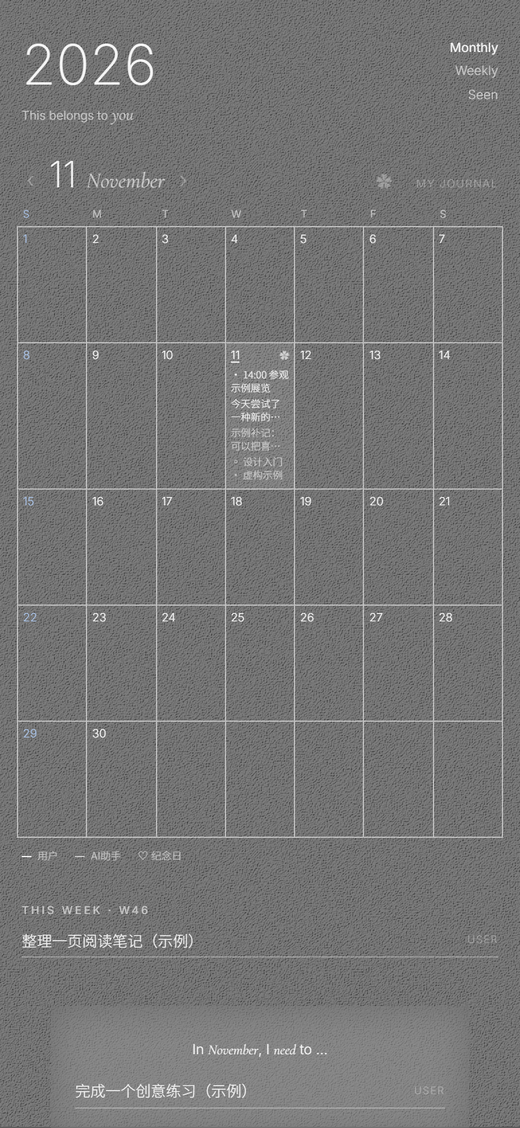
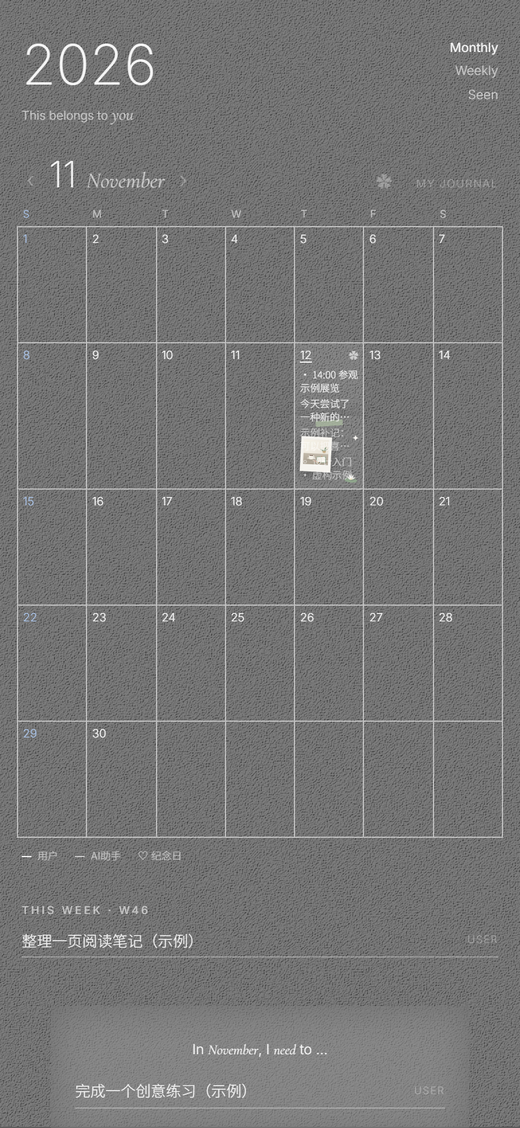
feat: month page previews, offline retry, and two sticker designs

Changed region(s): [[0.4308, 0.3103, 0.7077, 0.4344]]

diff --git a/frontend/stickers.js b/frontend/stickers.js
@@ -37,6 +37,8 @@ const STICKERS = (() => {
     ["sparkle", { w: 9, svg: svg("100 100", `<path fill="${W}" d="M50 5c3 27 13 40 45 45-32 5-42 18-45 45-3-27-13-40-45-45 32-5 42-18 45-45z"/>`) }],
     ["moon", { w: 12, svg: svg("100 100", `<path fill="#f1e6c4" d="M62 9a42 42 0 1 0 30 64A37 37 0 0 1 62 9z"/>`) }],
     ["sun", { w: 14, svg: svg("100 100", `<circle cx="50" cy="50" r="17" ${line()}/>${petals(8, `<path ${line()} d="M50 9v13"/>`)}`) }],
+    ["scales", { w: 30, svg: svg("140 84", `<defs><filter id="sb"><feGaussianBlur stdDeviation=".7"/></filter></defs><g filter="url(#sb)"><ellipse cx="46.9" cy="11.4" rx="3.9" ry="2.6" transform="rotate(-10 46.9 11.4)" fill="#f4f2ee" opacity="0.31"/><ellipse cx="62.7" cy="11.7" rx="3.7" ry="2.2" transform="rotate(-14 62.7 11.7)" fill="#f4f2ee" opacity="0.36"/><ellipse cx="75.4" cy="9.5" rx="3.8" ry="2.2" transform="rotate(-8 75.4 9.5)" fill="#f4f2ee" opacity="0.31"/><ellipse cx="89.4" cy="11.7" rx="4.8" ry="2.7" transform="rotate(-8 89.4 11.7)" fill="#f4f2ee" opacity="0.33"/><ellipse cx="28.5" cy="21.2" rx="5.1" ry="3.6" transform="rotate(-12 28.5 21.2)" fill="#f4f2ee" opacity="0.37"/><ellipse cx="42.1" cy="21.1" rx="4.6" ry="2.7" transform="rotate(-12 42.1 21.1)" fill="#f4f2ee" opacity="0.46"/><ellipse cx="55.8" cy="19.8" rx="4.6" ry="2.9" transform="rotate(-10 55.8 19.8)" fill="#f4f2ee" opacity="0.5"/><ellipse cx="68.3" cy="19.7" rx="5.4" ry="3.6" transform="rotate(-13 68.3 19.7)" fill="#f4f2ee" opacity="0.52"/><ellipse cx="82.5" cy="21.5" rx="5.1" ry="3.2" transform="rotate(-8 82.5 21.5)" fill="#f4f2ee" opacity="0.53"/><ellipse cx="93.8" cy="21.5" rx="5.4" ry="3.6" transform="rotate(-13 93.8 21.5)" fill="#f4f2ee" opacity="0.49"/><ellipse cx="109.1" cy="20.8" rx="4.5" ry="2.9" transform="rotate(-10 109.1 20.8)" fill="#f4f2ee" opacity="0.38"/><ellipse cx="19.8" cy="30.2" rx="3.8" ry="2.2" transform="rotate(-8 19.8 30.2)" fill="#f4f2ee" opacity="0.4"/><ellipse cx="36.0" cy="29.9" rx="4.3" ry="2.8" transform="rotate(-12 36.0 29.9)" fill="#f4f2ee" opacity="0.54"/><ellipse cx="47.9" cy="30.2" rx="4.6" ry="2.6" transform="rotate(-11 47.9 30.2)" fill="#f4f2ee" opacity="0.63"/><ellipse cx="60.7" cy="29.7" rx="5.0" ry="3.0" transform="rotate(-10 60.7 29.7)" fill="#f4f2ee" opacity="0.69"/><ellipse cx="74.9" cy="29.9" rx="5.3" ry="3.7" transform="rotate(-6 74.9 29.9)" fill="#f4f2ee" opacity="0.71"/><ellipse cx="86.8" cy="31.5" rx="4.7" ry="3.1" transform="rotate(-10 86.8 31.5)" fill="#f4f2ee" opacity="0.69"/><ellipse cx="101.4" cy="32.2" rx="4.3" ry="2.8" transform="rotate(-8 101.4 32.2)" fill="#f4f2ee" opacity="0.58"/><ellipse cx="118.2" cy="31.8" rx="3.7" ry="2.2" transform="rotate(-7 118.2 31.8)" fill="#f4f2ee" opacity="0.43"/><ellipse cx="13.8" cy="41.7" rx="4.6" ry="2.6" transform="rotate(-9 13.8 41.7)" fill="#f4f2ee" opacity="0.39"/><ellipse cx="26.0" cy="42.9" rx="4.9" ry="2.7" transform="rotate(-8 26.0 42.9)" fill="#f4f2ee" opacity="0.51"/><ellipse cx="43.6" cy="40.2" rx="5.1" ry="3.2" transform="rotate(-11 43.6 40.2)" fill="#f4f2ee" opacity="0.68"/><ellipse cx="54.5" cy="40.1" rx="5.9" ry="3.6" transform="rotate(-11 54.5 40.1)" fill="#f4f2ee" opacity="0.79"/><ellipse cx="66.1" cy="40.6" rx="5.2" ry="3.3" transform="rotate(-5 66.1 40.6)" fill="#f4f2ee" opacity="0.9"/><ellipse cx="80.6" cy="41.7" rx="5.9" ry="3.9" transform="rotate(-7 80.6 41.7)" fill="#f4f2ee" opacity="0.84"/><ellipse cx="94.6" cy="40.3" rx="4.5" ry="2.7" transform="rotate(-12 94.6 40.3)" fill="#f4f2ee" opacity="0.7"/><ellipse cx="106.6" cy="42.7" rx="4.9" ry="2.7" transform="rotate(-8 106.6 42.7)" fill="#f4f2ee" opacity="0.58"/><ellipse cx="124.2" cy="42.7" rx="4.7" ry="3.3" transform="rotate(-8 124.2 42.7)" fill="#f4f2ee" opacity="0.41"/><ellipse cx="134.0" cy="42.5" rx="4.4" ry="2.7" transform="rotate(-12 134.0 42.5)" fill="#f4f2ee" opacity="0.31"/><ellipse cx="8.5" cy="51.1" rx="4.6" ry="3.0" transform="rotate(-13 8.5 51.1)" fill="#f4f2ee" opacity="0.31"/><ellipse cx="23.4" cy="50.2" rx="4.1" ry="2.5" transform="rotate(-14 23.4 50.2)" fill="#f4f2ee" opacity="0.46"/><ellipse cx="34.5" cy="50.9" rx="4.8" ry="3.3" transform="rotate(-13 34.5 50.9)" fill="#f4f2ee" opacity="0.56"/><ellipse cx="48.6" cy="51.3" rx="4.5" ry="3.1" transform="rotate(-14 48.6 51.3)" fill="#f4f2ee" opacity="0.67"/><ellipse cx="62.4" cy="53.5" rx="5.6" ry="3.4" transform="rotate(-6 62.4 53.5)" fill="#f4f2ee" opacity="0.71"/><ellipse cx="77.1" cy="53.1" rx="6.0" ry="3.4" transform="rotate(-10 77.1 53.1)" fill="#f4f2ee" opacity="0.72"/><ellipse cx="87.4" cy="51.3" rx="6.0" ry="3.3" transform="rotate(-12 87.4 51.3)" fill="#f4f2ee" opacity="0.7"/><ellipse cx="104.8" cy="52.2" rx="5.3" ry="3.5" transform="rotate(-12 104.8 52.2)" fill="#f4f2ee" opacity="0.55"/><ellipse cx="114.3" cy="51.5" rx="5.0" ry="2.9" transform="rotate(-10 114.3 51.5)" fill="#f4f2ee" opacity="0.47"/><ellipse cx="131.5" cy="51.0" rx="4.7" ry="3.0" transform="rotate(-14 131.5 51.0)" fill="#f4f2ee" opacity="0.31"/><ellipse cx="29.6" cy="63.1" rx="4.5" ry="2.9" transform="rotate(-9 29.6 63.1)" fill="#f4f2ee" opacity="0.37"/><ellipse cx="40.8" cy="61.7" rx="5.3" ry="3.1" transform="rotate(-10 40.8 61.7)" fill="#f4f2ee" opacity="0.47"/><ellipse cx="52.9" cy="63.6" rx="3.9" ry="2.4" transform="rotate(-7 52.9 63.6)" fill="#f4f2ee" opacity="0.5"/><ellipse cx="68.8" cy="64.0" rx="5.3" ry="3.7" transform="rotate(-7 68.8 64.0)" fill="#f4f2ee" opacity="0.52"/><ellipse cx="83.9" cy="61.5" rx="4.3" ry="2.6" transform="rotate(-4 83.9 61.5)" fill="#f4f2ee" opacity="0.55"/><ellipse cx="96.7" cy="64.2" rx="4.3" ry="2.5" transform="rotate(-12 96.7 64.2)" fill="#f4f2ee" opacity="0.44"/><ellipse cx="106.7" cy="60.7" rx="4.1" ry="2.4" transform="rotate(-10 106.7 60.7)" fill="#f4f2ee" opacity="0.43"/><ellipse cx="61.3" cy="73.0" rx="4.4" ry="2.7" transform="rotate(-5 61.3 73.0)" fill="#f4f2ee" opacity="0.34"/><ellipse cx="77.6" cy="73.5" rx="4.1" ry="2.3" transform="rotate(-13 77.6 73.5)" fill="#f4f2ee" opacity="0.33"/><ellipse cx="91.3" cy="72.1" rx="4.9" ry="2.8" transform="rotate(-10 91.3 72.1)" fill="#f4f2ee" opacity="0.33"/></g>`) }],
+    ["apple", { w: 12, svg: svg("80 86", `<path fill="#8e3b36" d="M40 24c-6-5-24-6-29 10-5 17 6 40 17 44 5 2 8-1 12-1s7 3 12 1c11-4 22-27 17-44-5-16-23-15-29-10z"/><path ${line(3)} d="M40 24c0-8 3-14 8-17"/><path fill="#7d8f6a" d="M44 14c7-8 17-7 20-4-5 6-13 8-20 4z"/><path fill="#f4f2ee" opacity=".35" d="M22 36c2-6 7-9 11-9-4 3-7 8-8 14z"/>`) }],
     ["cloud", { w: 16, svg: svg("100 80", `<path ${line()} d="M27 66h47a16 16 0 0 0 2-32 22 22 0 0 0-42-6 19 19 0 0 0-7 38z"/>`) }],
     ["rain", { w: 16, svg: svg("100 100", `<path ${line()} d="M27 60h47a16 16 0 0 0 2-32 22 22 0 0 0-42-6 19 19 0 0 0-7 38z"/><path ${line()} d="M34 72l-5 14M52 72l-5 14M70 72l-5 14"/>`) }],
     ["flower", { w: 12, svg: svg("100 100", `<g fill="${W}">${petals(5, `<ellipse cx="50" cy="25" rx="12" ry="18"/>`)}</g><circle cx="50" cy="50" r="9" fill="#e8c96a"/>`) }],

diff --git a/frontend/app.js b/frontend/app.js
@@ -107,6 +107,8 @@ function renderMonth() {
 
   const notes = byDate(month.notes), media = byDate(month.media), events = byDate(month.events);
   const decorated = new Set(month.decorated_pages || []);
+  // 格子是那一页的缩略图：贴纸和照片按装修页里的位置露出来，压在字底下。
+  const peeks = month.page_peeks || {};
   const lead = new Date(y, mo, 1).getDay();
   const n = new Date(y, mo + 1, 0).getDate();
   const cells = [];
@@ -126,12 +128,34 @@ function renderMonth() {
     const cap = window.innerWidth >= 700 ? 6 : 4;
     const shown = lines.slice(0, cap).join("") + (lines.length > cap ? `<div class="more">+${lines.length - cap}</div>` : "");
     const cls = ["d", date.getDay() === 0 && "sun", key === ymd(today) && "today"].filter(Boolean).join(" ");
-    cells.push(`<div class="${cls}" data-date="${key}"><div class="num"><span>${d}</span><span class="ann">${deco ? "✿" : ""}${ann ? "♡" : ""}</span></div>${shown}</div>`);
+    cells.push(`<div class="${cls}" data-date="${key}"><div class="num"><span>${d}</span><span class="ann">${deco ? "✿" : ""}${ann ? "♡" : ""}</span></div>${shown}${peeks[`day:${key}`] ? `<div class="page cs-page" data-peek="day:${key}" aria-hidden="true"></div>` : ""}</div>`);
   }
   while (cells.length % 7) cells.push('<div class="d blank"></div>');
   $("#grid").innerHTML = cells.join("");
+  if (typeof PAGE !== "undefined") {
+    const pages = [...$("#grid").querySelectorAll(".cs-page")];
+    pages.forEach((el) => PAGE.render(el, { items: peeks[el.dataset.peek], strokes: [] }));
+    requestAnimationFrame(() => pages.forEach(fitPeek));
+  }
   renderMonthGoals();
   renderSide();
+}
+// 把那一页上贴了东西的区域整体放大，摆进格子下半截；相对位置和大小不变。
+function fitPeek(el) {
+  const cell = el.parentNode, items = el.querySelectorAll(".pi");
+  if (!items.length || !cell) return;
+  const c = cell.getBoundingClientRect(), p = el.getBoundingClientRect();
+  let l = Infinity, t = Infinity, r = -Infinity, b = -Infinity;
+  items.forEach((n) => { const q = n.getBoundingClientRect(); l = Math.min(l, q.left); t = Math.min(t, q.top); r = Math.max(r, q.right); b = Math.max(b, q.bottom); });
+  const bw = r - l, bh = b - t;
+  if (!bw || !bh) return;
+  const pad = 4, availW = c.width - pad * 2, availH = c.height * 0.58;
+  const z = Math.min(availW / bw, availH / bh, 3);
+  const bx = l - p.left, by = t - p.top, elX = p.left - c.left, elY = p.top - c.top;
+  const tx = (c.width - bw * z) / 2 - elX - z * bx;
+  const ty = c.height - pad - elY - z * (by + bh);
+  el.style.transformOrigin = "0 0";
+  el.style.transform = `translate(${tx}px,${ty}px) scale(${z})`;
 }
 $("#grid").addEventListener("click", (e) => {
   const c = e.target.closest(".d[data-date]");
@@ -346,7 +370,11 @@ $("#tabs").addEventListener("click", (e) => {
 function renderTab() { if (tab === "week") renderWeek(); if (tab === "seen") renderSeen(); }
 async function refresh() { await loadMonth(); renderTab(); }
 let lastW = window.innerWidth;
-window.addEventListener("resize", () => { if ((lastW >= 700) !== (window.innerWidth >= 700) && month) renderMonth(); lastW = window.innerWidth; });
+window.addEventListener("resize", () => {
+  if ((lastW >= 700) !== (window.innerWidth >= 700) && month) renderMonth();
+  else document.querySelectorAll(".cs-page").forEach((el) => { el.style.transform = ""; fitPeek(el); });
+  lastW = window.innerWidth;
+});
 
 // ---------- 启动 ----------
 async function start() {
@@ -354,7 +382,18 @@ async function start() {
     await api("/me");
     $("#login").hidden = true; $("#book").hidden = false;
     await refresh();
-  } catch (e) { if (e instanceof AuthError) showLogin(); else toast(e.message); }
+  } catch (e) {
+    if (e instanceof AuthError) return showLogin();
+    // 服务器暂时连不上时别留一张空白页
+    let box = $("#offline");
+    if (!box) {
+      box = document.createElement("main");
+      box.id = "offline"; box.className = "view offline";
+      box.innerHTML = '<p>暂时连不上手帐。</p><button type="button">点这里重试</button>';
+      box.querySelector("button").addEventListener("click", () => { box.remove(); start(); });
+      document.body.appendChild(box);
+    }
+  }
 }
 start();
 if (!window.TECHO_DEMO && "serviceWorker" in navigator) navigator.serviceWorker.register("sw.js").catch(() => {});

diff --git a/frontend/demo-data.js b/frontend/demo-data.js
@@ -26,6 +26,7 @@ window.TECHO_DEMO = true;
     const day = `${ym}-${pad(isCurrent ? now.getDate() : 8)}`;
     const common = {created_at:`${day}T09:00:00+08:00`, updated_at:`${day}T09:00:00+08:00`, deleted_at:null};
     const photo = {...common, id:901, date:day, author:"human", updated_by:"human", caption:"示例照片", width:800, height:800, hash:"demo-photo"};
+    const peekItems = demoItems.filter((x) => x.item_type !== "text").map(({item_type,ref,x,y,scale,rotation,z}) => ({item_type,ref,x,y,scale,rotation,z}));
     const weeks = {};
     const first = new Date(y, m - 1, 1), start = new Date(first);
     start.setDate(1 - (first.getDay() + 6) % 7);
@@ -36,7 +37,7 @@ window.TECHO_DEMO = true;
       {...common,id:2,date:day,author:"agent",updated_by:"agent",text:"示例补记：可以把喜欢的配色加入下周灵感清单。",mood:null}
     ],media:[{...common,id:3,date:day,author:"human",updated_by:"human",kind:"book",title:"设计入门 · 虚构示例",note:"阅读摘记"}],
       events:[{...common,id:4,date:day,author:"human",updated_by:"human",kind:"plan",title:"参观示例展览",time:"14:00",place:"示例展厅"}],
-      goals:{month:[{...common,id:12,author:"human",updated_by:"human",scope:"month",period:ym,text:"完成一个创意练习（示例）",status:"open",sort:0}],weeks},photos:isCurrent ? [photo] : [],decorated_pages:isCurrent ? [`day:${day}`] : []};
+      goals:{month:[{...common,id:12,author:"human",updated_by:"human",scope:"month",period:ym,text:"完成一个创意练习（示例）",status:"open",sort:0}],weeks},photos:isCurrent ? [photo] : [],decorated_pages:isCurrent ? [`day:${day}`] : [],page_peeks:isCurrent ? {[`day:${day}`]: peekItems} : {}};
   }
   window.fetch = async (input, init = {}) => {
     const url = new URL(typeof input === "string" || input instanceof URL ? input : input.url, location.href);

diff --git a/frontend/style.css b/frontend/style.css
@@ -48,6 +48,11 @@ nav button.on{color:var(--w);font-weight:400}
 .d{min-height:96px;border-right:.5px solid var(--line);border-bottom:.5px solid var(--line);
   padding:4px 4px 5px;display:flex;flex-direction:column;gap:2px;cursor:pointer;overflow:hidden;min-width:0}
 .d.blank{cursor:default}
+.d{position:relative}
+.d>*:not(.cs-page){position:relative;z-index:1}
+/* 格子里的那一页：贴着格子底，超出的部分被格子裁掉 */
+.d .cs-page{position:absolute;left:0;right:0;bottom:0;width:100%;background:none;pointer-events:none;z-index:0;overflow:visible}
+.d .cs-page .ink{display:none}
 .d .num{font-size:9.5px;display:flex;justify-content:space-between;margin-bottom:2px}
 .d.sun .num span:first-child{color:var(--blue)}
 .d.today{background:rgba(255,255,255,.09)}
@@ -183,3 +188,6 @@ nav button.on{color:var(--w);font-weight:400}
 @media (min-width:700px){ .ed-pane{height:150px} .tray-grid{grid-template-columns:repeat(10,1fr)} .ed-stage{padding:12px 40px} }
 .ed-sel[hidden] + .strong{margin-left:auto}
 .page{background-color:#686868;background-image:radial-gradient(rgba(255,255,255,.16) .7px,transparent .9px);background-size:5% 3.75%;background-position:2.5% 1.9%}
+
+.offline{display:flex;flex-direction:column;align-items:center;justify-content:center;gap:14px;min-height:60vh;font-family:var(--cn);color:var(--w2);font-size:13px}
+.offline button{color:var(--w);border-bottom:.5px solid var(--w2);padding:4px 2px;font-size:13px}

diff --git a/frontend/index.html b/frontend/index.html
@@ -12,7 +12,7 @@
 <title>techo</title>
 <link rel="preconnect" href="https://fonts.googleapis.com">
 <link href="https://fonts.googleapis.com/css2?family=Inter:wght@200;300;400&family=Cormorant+Garamond:ital,wght@1,400&family=Noto+Sans+SC:wght@300;400&display=swap" rel="stylesheet">
-<link rel="stylesheet" href="style.css?v=showcase1">
+<link rel="stylesheet" href="style.css?v=showcase2">
 </head>
 <body>
 <svg class="grain" aria-hidden="true"><filter id="paper"><feTurbulence type="fractalNoise" baseFrequency=".9" numOctaves="3" seed="7"/><feDiffuseLighting lighting-color="#fff" surfaceScale="2.2"><feDistantLight azimuth="45" elevation="55"/></feDiffuseLighting></filter><rect width="100%" height="100%" filter="url(#paper)"/></svg>
@@ -69,8 +69,8 @@
 </div>
 <div class="scrim" id="scrim"></div>
 
-<script src="stickers.js?v=showcase1"></script>
-<script src="app.js?v=showcase1"></script>
-<script src="page.js?v=showcase1"></script>
+<script src="stickers.js?v=showcase2"></script>
+<script src="app.js?v=showcase2"></script>
+<script src="page.js?v=showcase2"></script>
 </body>
 </html>

diff --git a/frontend/demo.html b/frontend/demo.html
@@ -12,7 +12,7 @@
 <title>techo · 作品演示</title>
 <link rel="preconnect" href="https://fonts.googleapis.com">
 <link href="https://fonts.googleapis.com/css2?family=Inter:wght@200;300;400&family=Cormorant+Garamond:ital,wght@1,400&family=Noto+Sans+SC:wght@300;400&display=swap" rel="stylesheet">
-<link rel="stylesheet" href="style.css?v=showcase1">
+<link rel="stylesheet" href="style.css?v=showcase2">
 <style>.demo-notice{position:sticky;top:0;z-index:10000;padding:9px 16px;background:#e8e3d9;color:#343434;font:13px sans-serif;text-align:center}form.add,form[data-new],.goal .ck,.goal .x,.entry .x{display:none!important}</style>
 </head>
 <body>
@@ -72,8 +72,8 @@
 <div class="scrim" id="scrim"></div>
 
 <script src="demo-data.js"></script>
-<script src="stickers.js?v=showcase1"></script>
-<script src="app.js?v=showcase1"></script>
-<script src="page.js?v=showcase1"></script>
+<script src="stickers.js?v=showcase2"></script>
+<script src="app.js?v=showcase2"></script>
+<script src="page.js?v=showcase2"></script>
 </body>
 </html>

diff --git a/frontend/sw.js b/frontend/sw.js
@@ -1,5 +1,5 @@
 // 只缓存页面外壳，接口永远走网络
-const C = "techo-showcase-v1";
+const C = "techo-showcase-v2";
 const SHELL = ["./", "index.html", "style.css", "app.js", "stickers.js", "page.js", "icon.svg", "manifest.webmanifest"];
 self.addEventListener("install", (e) => { e.waitUntil(caches.open(C).then((c) => c.addAll(SHELL))); self.skipWaiting(); });
 self.addEventListener("activate", (e) => { e.waitUntil(caches.keys().then((ks) => Promise.all(ks.filter((k) => k !== C).map((k) => caches.delete(k))))); self.clients.claim(); });

diff --git a/tests/test_pages.py b/tests/test_pages.py
@@ -420,6 +420,40 @@ def test_month_lists_decorated_pages(client, agent_headers):
     assert get_view(client, month="2026-12", headers=agent_headers)["decorated_pages"] == ["day:2026-12-01"]
 
 
+def test_month_peeks_top_stickers_and_photos_per_page(browser, agent_headers):
+    assert get_view(browser, month=MONTH, headers=agent_headers)["page_peeks"] == {}
+    photo = create_photo(browser, agent_headers)
+    put(
+        browser,
+        [
+            sticker(ref="pack:fig", z=0),
+            text_item(z=1),
+            sticker(ref="emoji:🌿", z=2),
+            {**sticker(), "item_type": "photo", "ref": str(photo["id"]), "z": 3},
+        ],
+        headers=agent_headers,
+        page="day:2026-11-11",
+    )
+    put(browser, [text_item()], headers=agent_headers, page="day:2026-11-12")
+    peeks = get_view(browser, month=MONTH, headers=agent_headers)["page_peeks"]
+    assert list(peeks) == ["day:2026-11-11"]
+    shown = peeks["day:2026-11-11"]
+    assert [(x["item_type"], x["ref"]) for x in shown] == [
+        ("photo", str(photo["id"])),
+        ("sticker", "emoji:🌿"),
+        ("sticker", "pack:fig"),
+    ]
+    assert shown[0] == {
+        "item_type": "photo",
+        "ref": str(photo["id"]),
+        "x": 0.5,
+        "y": 0.12,
+        "scale": 1,
+        "rotation": -4,
+        "z": 3,
+    }
+
+
 def test_decorations_and_strokes_stay_out_of_the_change_feed(browser, agent_headers):
     put(browser, [sticker()])
     created = add_strokes(browser, [stroke()]).json()["strokes"]

diff --git a/server/techo/services/pages.py b/server/techo/services/pages.py
@@ -150,3 +150,32 @@ class PageService:
             select(Stroke.page).where(Stroke.page.in_(pages), Stroke.deleted_at.is_(None)),
         ).subquery()
         return sorted(session.scalars(select(decorated.c.page)))
+
+    @staticmethod
+    def page_peeks(session, pages: list[str], limit: int = 6) -> dict[str, list[dict]]:
+        # 月历格子是那一页的缩略图：只取最上层的贴纸和照片，每页最多 limit 个。
+        rows = session.execute(
+            select(Decoration)
+            .where(
+                Decoration.page.in_(pages),
+                Decoration.item_type.in_(("sticker", "photo")),
+                Decoration.ref.is_not(None),
+            )
+            .order_by(Decoration.page, Decoration.z.desc(), Decoration.id.desc())
+        )
+        result: dict[str, list[dict]] = {}
+        for (row,) in rows:
+            items = result.setdefault(row.page, [])
+            if len(items) < limit:
+                items.append(
+                    {
+                        "item_type": row.item_type,
+                        "ref": row.ref,
+                        "x": row.x,
+                        "y": row.y,
+                        "scale": row.scale,
+                        "rotation": row.rotation,
+                        "z": row.z,
+                    }
+                )
+        return result

diff --git a/tests/test_resources.py b/tests/test_resources.py
@@ -288,7 +288,16 @@ def test_month_and_day_include_intersecting_iso_weeks_across_year_and_month_boun
     for day in ("2020-12-31", "2021-01-01", "2021-01-31", "2021-02-01"):
         dated[day] = create_item(client, "notes", {"date": day, "text": day}, agent_headers)
     january = get_view(client, month="2021-01", headers=agent_headers)
-    assert set(january) == {"ym", "notes", "media", "events", "goals", "photos", "decorated_pages"}
+    assert set(january) == {
+        "ym",
+        "notes",
+        "media",
+        "events",
+        "goals",
+        "photos",
+        "decorated_pages",
+        "page_peeks",
+    }
     assert january["ym"] == "2021-01"
     assert set(january["goals"]["weeks"]) == {"2020-W53", "2021-W01", "2021-W02", "2021-W03", "2021-W04"}
     assert january["goals"]["weeks"]["2020-W53"] == [goals["2020-W53"]]

diff --git a/server/techo/services/calendar.py b/server/techo/services/calendar.py
@@ -42,6 +42,7 @@ class CalendarService:
             }
             if pages is not None:
                 result["decorated_pages"] = PageService.decorated_pages(session, pages)
+                result["page_peeks"] = PageService.page_peeks(session, pages)
             return result
 
     def month(self, ym: str) -> dict:
